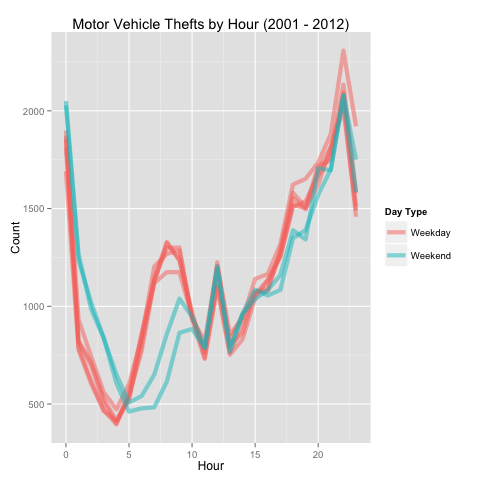
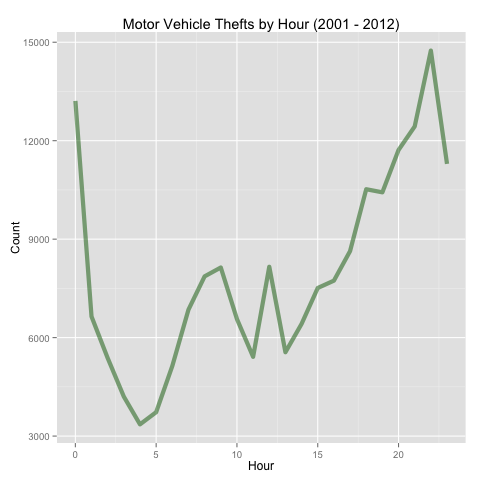
second commit

diff --git a/README.md b/README.md
@@ -4,23 +4,269 @@
 Visualize motor vehicle thefts in Chicago between January 1, 2001 and December 31, 2012.
 
 <h2>About the Data</h2>
-This data comes from the <a href='http://gis.chicagopolice.org/' target='_blank'>Chicago Police Department</a>.
+This data comes from the <a href='http://gis.chicagopolice.org/' target='_blank'>Chicago Police Department</a>. It contains information about motor vehicle thefts in Chicago between January 1, 2001 and December 31, 2012.
 
-<h2>Visualizations</h2>
+<h2>Data Preparation</h2>
+<h6>1. Loading and viewing data</h6>
+    > mvt <- read.csv('mvt.csv', stringsAsFactors=FALSE)
+    > head(mvt)
+		Date Latitude Longitude
+    1 12/31/12 23:15 41.75628 -87.62164
+    2 12/31/12 22:00 41.89879 -87.66130
+    3 12/31/12 22:00 41.96919 -87.76767
+    4 12/31/12 22:00 41.76933 -87.65773
+    5 12/31/12 21:30 41.83757 -87.62176
+    6 12/31/12 20:30 41.92856 -87.75400
 
+<h6>2. Creating new columns with extracted information</h6>
+
+    > str(mvt)
+    'data.frame':	191641 obs. of  3 variables:
+     $ Date     : chr  "12/31/12 23:15" "12/31/12 22:00" "12/31/12 22:00" "12/31/12 22:00" ...
+     $ Latitude : num  41.8 41.9 42 41.8 41.8 ...
+     $ Longitude: num  -87.6 -87.7 -87.8 -87.7 -87.6 ...
+    > 
+    > mvt$Date <- strptime(mvt$Date, format="%m/%d/%y %H:%M")
+    > range(mvt$Date)
+    [1] "1/1/01 0:01" "9/9/12 9:50"
+    >
+    > mvt$Year <- format(mvt$Date, '%Y')
+    > mvt$Month <- months(mvt$Date)
+    > mvt$Day <- weekdays(mvt$Date)
+    > mvt$Hour <- mvt$Date$hour
+    >
+    > head(mvt)
+		     Date Latitude Longitude Year    Month    Day Hour
+    1 2012-12-31 23:15:00 41.75628 -87.62164 2012 December Monday   23
+    2 2012-12-31 22:00:00 41.89879 -87.66130 2012 December Monday   22
+    3 2012-12-31 22:00:00 41.96919 -87.76767 2012 December Monday   22
+    4 2012-12-31 22:00:00 41.76933 -87.65773 2012 December Monday   22
+    5 2012-12-31 21:30:00 41.83757 -87.62176 2012 December Monday   21
+    6 2012-12-31 20:30:00 41.92856 -87.75400 2012 December Monday   20
+
+<h2>Visualizations Process: Line Graphs and Heat Map</h2>
+<h6>1. Installing and loading 'ggplot2' package</h6>
+    > install.packages('ggplot2')
+    > library(ggplot2)
+
+<h6>2. Motor vehicle thefts by year (2001 - 2012)</h6>
+    > mvtByYear <- as.data.frame(table(mvt$Year)) 
+    > colnames(mvtByYear) <- c('Year', 'Count')
+    > mvtByYear$Year <- as.numeric(as.character(mvtByYear$Year))
+    >
+    > ggplot(mvtByYear, aes(x = Year, y = Count)) + 
+    +   geom_line(aes(group = 1), size = 2, alpha = 0.5, color = 'blue') + 
+    +   scale_x_continuous(breaks = 2001:2012) + 
+    +   theme(axis.title.x = element_blank()) + 
+    +   ggtitle('Motor Vehicle Thefts by Year (2001 - 2012)')
 
 ![Alt text](./figures/line_graph_motor_vehicle_thefts_by_year_2001-2012.png)
 
+<h6>3. Motor vehicle thefts by month (2001 - 2012)</h6>
+
+    > mvtByMonth <- as.data.frame(table(mvt$Month))
+    > colnames(mvtByMonth) <- c('Month', 'Count')
+    > mvtByMonth$Month <- factor(mvtByMonth$Month, 
+    +                            levels = c('January', 'February', 'March', 'April',
+    +                                       'May', 'June', 'July', 'August', 'September',
+    +                                       'October', 'November', 'December'))
+    >
+    > ggplot(mvtByMonth, aes(x=Month, y=Count)) + 
+    >   geom_line(aes(group=1), size = 2, alpha = 0.5, color = 'red') + 
+    >   theme(axis.title.x = element_blank(), 
+    >	      axis.text.x = element_text(angle = 45, hjust = 1)) +
+    >   ggtitle('Motor Vehicle Thefts by Month (2001 - 2012)')
+
 ![Alt text](./figures/line_graph_motor_vehicle_thefts_by_month_2001-2012.png)
 
-![Alt text](./figures/heatmap_motor_vehicle_thefts_by_month_and_year_2001-2012.png)
+<h6>4. Motor vehicle thefts by day of the week (2001 - 2012)</h6>
 
-![Alt text](./figures/barchart_motor_vehicle_thefts_by_days_of_the_week_2001-2012.png)
+    > mvtByDay <- as.data.frame(table(mvt$Day))
+    > colnames(mvtByDay) <- c('Day', 'Count')
+    > mvtByDay$Day <- factor(mvtByDay$Day,
+    +                            levels = c('Monday', 'Tuesday', 'Wednesday', 'Thursday',
+    +                                       'Friday', 'Saturday', 'Sunday'))
+    >
+    > ggplot(mvtByDay, aes(x = Day, y = Count)) + 
+    +   geom_bar(aes(fill = Day), stat = 'identity') +
+    +   theme(axis.title.x = element_blank()) + 
+    +   ggtitle('Motor Vehicle Thefts by Day of the Week (2001 - 2012)')
 
-![Alt text](./figures/line_graph_motor_vehicle_thefts_by_hour_2001-2012.png)
+![Alt text](./figures/barchart_motor_vehicle_thefts_by_day_of_the_week_2001-2012.png)
+
+<h6>5. Motor vehicle thefts by hour (2001 - 2012)</h6>
+
+    > mvtByHour <- as.data.frame(table(mvt$Hour))
+    > colnames(mvtByHour) <- c('Hour', 'Count')
+    > mvtByHour$Hour <- as.numeric(as.character(mvtByHour$Hour))
+    >
+    > ggplot(mvtByHour, aes(x=Hour, y=Count)) + 
+    +   geom_line(aes(group=1), size=2, alpha=0.5, color = 'darkgreen') +
+    +   ggtitle('Motor Vehicle Thefts by Hour (2001 - 2012)')
+
+![Alt text](./figures/line_chart_motor_vehicle_thefts_by_hour_2001-2012.png)
+
+<h6>6. Motor vehicle thefts by month and year (heatmap)</h6>
+
+    > mvtByMonthYear <- as.data.frame(table(mvt$Month, mvt$Year))
+    > colnames(mvtByMonthYear) <- c('Month', 'Year', 'Count')
+    > mvtByMonthYear$Year <- as.numeric(as.character(mvtByMonthYear$Year))
+    > mvtByMonthYear$Month <- factor(mvtByMonthYear$Month, 
+    +                                levels = c('January', 'February', 'March', 'April',
+    +                                           'May', 'June', 'July', 'August', 'September',
+    +                                           'October', 'November', 'December'))
+    >
+    > ggplot(mvtByMonthYear, aes(x = Month, y = Year)) +
+    +   geom_tile(aes(fill = Count)) + 
+    +   theme(axis.title.x = element_blank(), 
+    +         axis.text.x = element_text(angle = 45, hjust = 1)) +
+    +   scale_fill_gradient(low = 'white', high = 'red') +
+    +   scale_y_continuous(breaks = 2001:2012) + 
+    +   ggtitle('Motor Vehicle Thefts by Month and Year (2001 - 2012)')
+
+<h6>7. Motor vehicle thefts by hour and day of the week (heatmap)</h6>
+
+    > mvtByHourDay <- as.data.frame(table(mvt$Day, mvt$Hour))
+    > colnames(mvtByHourDay) <- c('Day', 'Hour', 'Count')
+    > mvtByHourDay$Day <- factor(mvtByHourDay$Day, 
+    +                                levels = c('Monday', 'Tuesday', 'Wednesday', 'Thursday',
+    +                                           'Friday', 'Saturday', 'Sunday'))
+    > mvtByHourDay$Hour <- as.numeric(as.character(mvtByHourDay$Hour))
+    >
+    > ggplot(mvtByHourDay, aes(x = Hour, y = Day)) + 
+    +   geom_tile(aes(fill = Count)) + 
+    +   scale_fill_gradient(name = 'Motor Vehicle Thefts',
+    +                       low = 'white', high = 'red') + 
+    +   theme(axis.title.y = element_blank()) + 
+    +   ggtitle('Motor Vehicle Thefts by Hour and Day of the Week (2001 - 2012)') +
+    +   scale_x_continuous(breaks = seq(from=0, to=23, by=2))
 
 ![Alt text](./figures/heatmap_motor_vehicle_thefts_by_hour_and_day_of_the_week_2001-2012.png)
 
-![Alt text](./figures/map1_motor_vehicle_thefts_2001-2012.png)
+<h2>Visualization Process: Maps</h2>
+<h6>0. Installing and loading 'maps' and 'ggmap' packages</h6>
 
-![Alt text](./figures/map2_motor_vehicle_thefts_2001-2012.png)
+    > install.packages('maps')
+    > install.packages('ggmap')
+    > library(maps)
+    > library(ggmap)
+
+<h6>1. Loading a map of Chicago and plotting</h6>
+
+    > chicago <- get_map(location = "chicago", zoom = 11)
+    > ggmap(chicago)
+
+![Alt text](./figures/map0_chicago.png)
+
+<h6>2. Plot all cases of motor vehicle thefts between 2001 and 2012 raw</h6>
+
+    > ggmap(chicago) + 
+    +   geom_point(data = mvt, 
+    +              aes(x = Longitude, y = Latitude))
+
+![Alt text](./figures/map1_motor_vehicle_thefts_raw_points_2001-2012.png)
+
+<h6>3. Plot the first 1000 cases of motor vehicle thefts in the data frame</h6>
+
+    > ggmap(chicago) + 
+    +   geom_point(data = mvt[1:1000,], 
+    +              aes(x = Longitude, y = Latitude))
+
+![Alt text](./figures/map0_motor_vehicle_thefts_first_1000_2001-2012.png)
+
+<h6>Create a data frame with theft counts by sub-regions</h6>
+
+    > mvtByLongLat <- as.data.frame(table(round(mvt$Longitude, 2), round(mvt$Latitude, 2)))  # round the longitude and latitude coordinates to 2 decimal places
+    > colnames(mvtByLongLat) <- c('Longitude', 'Latitude', 'Count')
+    > head(mvtByLongLat)
+      Longitude Latitude Count
+    1    -87.93    41.64     0
+    2    -87.92    41.64     0
+    3    -87.91    41.64     0
+    4     -87.9    41.64     0
+    5    -87.89    41.64     0
+    6    -87.88    41.64     0
+
+<h6>Convert the Longitude and Latitude variables to numberic variables</h6>
+    > str(mvtByLongLat)
+    'data.frame':	1638 obs. of  3 variables:
+     $ Longitude: Factor w/ 42 levels "-87.93","-87.92",..: 1 2 3 4 5 6 7 8 9 10 ...
+     $ Latitude : Factor w/ 39 levels "41.64","41.65",..: 1 1 1 1 1 1 1 1 1 1 ...
+     $ Count    : int  0 0 0 0 0 0 0 0 0 0 ...
+    > mvtByLongLat$Longitude <- as.numeric(as.character(mvtByLongLat$Longitude))
+    > mvtByLongLat$Latitude <- as.numeric(as.character(mvtByLongLat$Latitude))
+    > head(mvtByLongLat)
+      Longitude Latitude Count
+    1    -87.93    41.64     0
+    2    -87.92    41.64     0
+    3    -87.91    41.64     0
+    4    -87.90    41.64     0
+    5    -87.89    41.64     0
+    6    -87.88    41.64     0
+
+<h6>Plot points on the Chicago map</h6>
+
+    > ggmap(chicago) + 
+    +   geom_point(data = mvtByLongLat,
+    +              aes(x = Longitude, y = Latitude, color = Count, size = Count))
+
+![Alt text](./figures/map3_motor_vehicle_thefts_subregions_points_2001-2012.png)
+
+<h6>Remove regions with 0 theft case and r-eplot with a better color scheme</h6>
+    > head(mvtByLongLat)
+      Longitude Latitude Count
+    1    -87.93    41.64     0
+    2    -87.92    41.64     0
+    3    -87.91    41.64     0
+    4    -87.90    41.64     0
+    5    -87.89    41.64     0
+    6    -87.88    41.64     0
+    > mvtByLongLat <- subset(mvtByLongLat, Count != 0)
+    > head(mvtByLongLat)
+       Longitude Latitude Count
+    33    -87.61    41.64     3
+    40    -87.54    41.64     1
+    74    -87.62    41.65    54
+    75    -87.61    41.65    60
+    76    -87.60    41.65    28
+    77    -87.59    41.65     1
+    >
+    > ggmap(chicago) + 
+    +   geom_point(data = mvtByLongLat,
+    +              aes(x = Longitude, y = Latitude, color = Count, size = Count)) + 
+    +   scale_color_gradient(low = 'white', high = 'red') +
+    +   xlab('Longitude') + 
+    +   ylab('Latitude') + 
+    +   ggtitle('Map of Motor Vehicle Thefts (2001 - 2012)')
+
+![Alt text](./figures/map4_motor_vehicle_thefts_subregions_points_refined_2001-2012.png)
+
+<h6>Re-plot to create a map with heatmap rendition</h6>
+    > ggmap(chicago) + 
+    +   geom_tile(data = mvtByLongLat,
+    +             aes(x = Longitude, y = Latitude))
+
+![Alt text](./figures/map5_motor_vehicle_thefts_subregions_tile_raw_2001-2012.png)
+
+    > ggmap(chicago) + 
+    +   geom_tile(data = mvtByLongLat,
+    +             aes(x = Longitude, y = Latitude, alpha = Count))
+
+![Alt text](./figures/map6_motor_vehicle_thefts_subregions_tile_opacity_2001-2012.png)
+
+    > ggmap(chicago) + 
+    +   geom_tile(data = mvtByLongLat,
+    +             aes(x = Longitude, y = Latitude, alpha = Count),
+    +             fill = 'red')
+
+![Alt text](./figures/map7_motor_vehicle_thefts_subregions_tile_red_opacity_2001-2012.png)
+
+    > ggmap(chicago) + 
+    +   geom_tile(data = mvtByLongLat,
+    +             aes(x = Longitude, y = Latitude, alpha = Count),
+    +             fill = 'red') + 
+    +   xlab('Longitude') + 
+    +   ylab('Latitude') +
+    +   ggtitle('Map of Motor Vehicle Thefts (2001 - 2012)')
+
+![Alt text](./figures/map8_motor_vehicle_thefts_subregions_tile_final_2001-2012.png)
